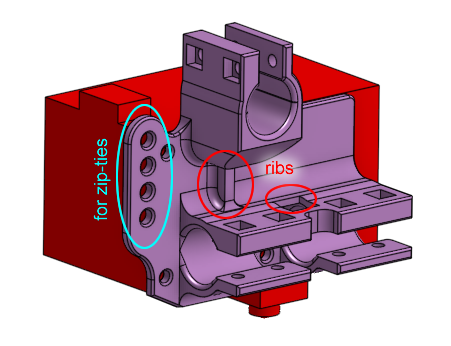
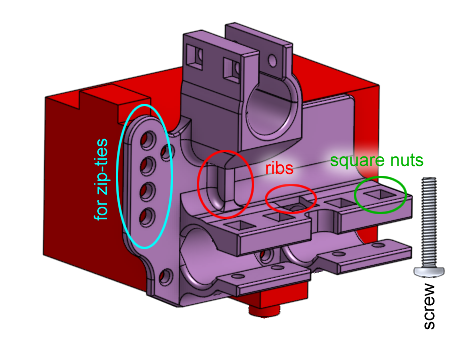
lesson 6 work in progress

Changed region(s): [[0.714, 0.4046, 0.9933, 0.9538], [0.8692, 0.5202, 0.9002, 0.6069], [0.8071, 0.6069, 0.8692, 0.6358]]

diff --git a/ordered_lessons/lesson6.md b/ordered_lessons/lesson6.md
@@ -60,19 +60,31 @@ Other topics from [lesson 4](lesson4) applied here are the print orientation, ho
 
 ![](../images/lesson5/parts/slidingblocks.png)
 
-These blocks carry the cross linear rods and have an internal brass bushing so it can slide along the side linear rods. The have internal groves where the belt is attached to so the belt can pull on it. We talked about these in [lesson 5](lesson5).
+These blocks carry the cross linear rods and have an internal brass bushing so it can slide along the side linear rods. The have internal groves where the belt is attached to so the belt can pull on it. We talked about these sliding blocks interact with the other components in [lesson 5](lesson5).
 
 ![](../images/lesson5/pictures/slidingblocksectionview.png)
+
+We also talked about how the screws are fastened to square nuts embedded into the plastic in [lesson 4](lesson4). The position of this part was planned out in [lesson 2](lesson2).
+
+![](../images/lesson2/planalignedwithfloorplan.png)
 
 ## Limit Switches and Homing
 
 How does the printer know where the print head is? How does the printer know where the bed is?
 
-The "end" of the printing area is at (0, 0) meaning X=0 and Y=0, this is the front left corner of the bed. When the X axis reaches position 0, the cross rod will hit an electrical switch, which signals to the control circuit and the firmware that the X axis has reached X=0. The switch is called a limit switch. The same goes for the Y axis and Z axis too, except the Z axis limit switch is on the bottom of the printer, not the top.
+The "end" of the printing area is at (0, 0) meaning X=0 and Y=0, this is the front left corner of the bed. When the X axis reaches position 0, the cross rod will hit an electrical switch, which signals to the control circuit and the firmware that the X axis has reached X=0.
+
+![](../images/lesson6/printerlimitswitch.png)
+
+The switch is called a limit switch, and also called end-stop switches. The same goes for the Y axis and Z axis too, except the Z axis limit switch is on the bottom of the printer, not the top.
+
+![](../images/lesson6/limitswitch.png)
 
 At the start of a print, the firmware will move all of the axis towards their limit switches until all of them have been hit, so the printer knows what position it has started in. This is called "**homing**". Once the homing is complete, the firmware can simply track position internally because it is controlling the stepper motors, which moves in very precise steps. As long as the firmware doesn't lose count and the stepper motors are fully functioning, then the firmware is aware of the position of all of the axis.
 
 In this printer's design, all of the limit switches are adjustable, so we can fine tune the home position easily. For the X and Y axis limit switches, the mounting holes are actually slots, so the switches can slide. For the Z axis limit switch, there's a screw above it that can be extended to adjust the activivation point.
+
+![](../images/lesson6/limitswitchslots.png)
 
 These switches are designed so that they are durable and their activation point is repeatable. This is important because we want the home position to be consistent, so that every print starts at the same bed height. Otherwise, one print might be successful, and the next print might not stick to the bed at all.
 
@@ -82,21 +94,53 @@ These switches also have a standardized form factor so we can easily purchase re
 
 Have a look at how the Z axis stepper motor is mounted to the frame. It is using a 3D printed piece of plastic with a design that secures the stepper motor to the rear horizontal beam of the printer's frame. Pay attention to how ribs and walls are used to give it strength.
 
-On the side is where the Z axis limit switch is mounted.
+![](../images/lesson6/zsteppermotormountoverview.png)
+
+On the side is where the Z axis limit switch is mounted. This limit switch will let the printer circuit and firmware know when the bed has reached the bottom of the printer.
+
+![](../images/lesson6/zsteppermotormountlimitswitch.png)
+
+Above the limit switch is the limit switch actuator, which is the object that will press against the limit switch. We'll talk about this soon.
 
 ## Z Axis Lead-Nut Mount
 
 On the back of the bed assembly is where the lead-nut is mounted, so that the leadscrew can move the bed up and down. This is a 3D printed piece of plastic, with holes that allow the lead-nut to protrude through and be fastened. Due to the positioning of the lead-nut, the screws need to be countersunk into the plastic, which is why there are four holes that have a chamfer.
 
+![](../images/lesson6/leadnutplate.png)
+
 You will also notice that the bed's rear aluminum beam needs a slight cut so that the leadscrew does not hit it. There's other ways to solve this problem but the easiest is to just make that cut into the aluminum.
+
+![](../images/lesson6/bedreararmcut.png)
+
+## Z Axix Limit Switch Actuator
+
+![](../images/lesson6/zsteppermotormountlimitswitch.png)
+
+This is a 3D printed plastic part that is meant to press against the Z axis limit switch. It has a hole for a screw that's positioned exactly above the limit switch's button. It also has a cavity for a square nut for the screw to thread into. To adjust the activation point of the switch, simply rotate the screw to extend or retract it.
+
+![](../images/lesson6/zsteppermotormountlimitswitchactuator.png)
 
 ## The Bed Assembly
 
-The bed assembly starts off looking like a forklift built with three aluminum beams. The bed plate itself is simply the bed heater PCB with a sheet of glass on top. The bed plate uses a four point spring loaded leveling system with the holes at its four corners, connected to pieces of 3D printed plastic under them, with springs in between.
+The bed assembly starts off looking like a forklift built with three aluminum beams.
+
+![](../images/lesson6/bedassemblyoverview.png)
+
+The bed plate itself is simply the bed heater PCB with a sheet of glass on top. The bed plate uses a four point spring loaded leveling system with the holes at its four corners, connected to pieces of 3D printed plastic under them, with springs in between.
+
+![](../images/lesson6/bedassemblyoverviewlow.png)
 
 The front two pieces of plastic are very simple they are attached to the front of the forklift and just have to support the front of the bed.
 
-The rear two pieces of plastic at the rear of the forklift have a very similar role but also provides four additional holes. These additional holes is where another piece of plastic, the backstop, can be attached and adjusted in height to match the height of the glass sheet. This backstop prevents the glass from sliding when you use a scraper to remove your prints from the glass bed, and this is why the part uses four screws secured into a very thick piece of plastic, for strength.
+![](../images/lesson4/bedfrontstand.png)
+
+The rear two pieces of plastic at the rear of the forklift have a very similar role but also provides four additional holes.
+
+![](../images/lesson6/bedrearblockoverview.png)
+
+These additional holes is where another piece of plastic, the backstop, can be attached and adjusted in height to match the height of the glass sheet. This backstop prevents the glass from sliding when you use a scraper to remove your prints from the glass bed, and this is why the part uses four screws secured into a very thick piece of plastic, for strength.
+
+![](../images/lesson6/backstopplate.png)
 
 The height of the backstop is adjustable because we don't want the print head assembly to hit the backstop when it is performing movements close to the rear of the printer.
 
@@ -106,21 +150,39 @@ If you drastically change the bed's level, you do need to re-adjust the height o
 
 We've talked about how and why we level the bed in the previous lessons. Now we look at the hardware required in detail.
 
+![](../images/lesson6/bedspringsdetail.png)
+
+![](../images/lesson6/bedspringsknobsamazon.png)
+
 If you tighten the knob by twisting it clockwise, the knob will pull the screw, compressing the spring, and lowering that corner of the bed. Vice-versa, loosening the knob by twisting it counterclockwise, the knob will push the screw, the spring will extend, and that corner of the bed will rise.
 
 There's actually another way, using silicone rubber columns. These are tube shaped pieces of silicone that acts as springs. They are shorter than the springs that are commonly found on 3D printers. This is a good thing because a shorter gap between the bed and fork lift means slightly more stability of the bed itself.
 
+![](../images/lesson6/siliconebedlevelcolumns.png)
+
+You would need to buy the screws and knobs separately if you decide to buy the silicone columns.
+
 ## Drag Chain
 
-A drag chain is used to guide the wires going from the bottom of the printer to the bed assembly. The drag chain can bend in one direction, and limits the bend radius of itself, and thus limiting the bend radius on the wires inside. This reduces wear-and-tear on the wires as they are repeatedly bent and straightened. It also protects the wires from snagging on anything.
+A drag chain is used to guide the wires going from the bottom of the printer to the bed assembly.
+
+![](../images/lesson6/dragchainoverview.png)
+
+The drag chain can bend in one direction, and limits the bend radius of itself, and thus limiting the bend radius on the wires inside. This reduces wear-and-tear on the wires as they are repeatedly bent and straightened. It also protects the wires from snagging on anything.
+
+![](../images/lesson6/dragchaininaction.png)
 
 A drag chain is appropriate for something that moves slowly and only in on direction, so it is perfect for a 3D printer bed, which only moves up and down, and only once per print.
 
 ## Upper Corner Cable Guide
 
+![](../images/lesson6/uppercornercableguideoverview.png)
+
 For the wires going to the extruder, we need to prop up the wires so that they don't end up dangling into the gantry's rods. There will be a flexible tube that goes into an arc above the printer, bridging the side of the printer and the extruder. The wires that powers the extruder will be guided along this tube so that they don't dangle.
 
 On other printers the same idea is used very frequently.
+
+![](../images/lesson6/uppercornercableguideexample.png)
 
 ## Power Input
 
